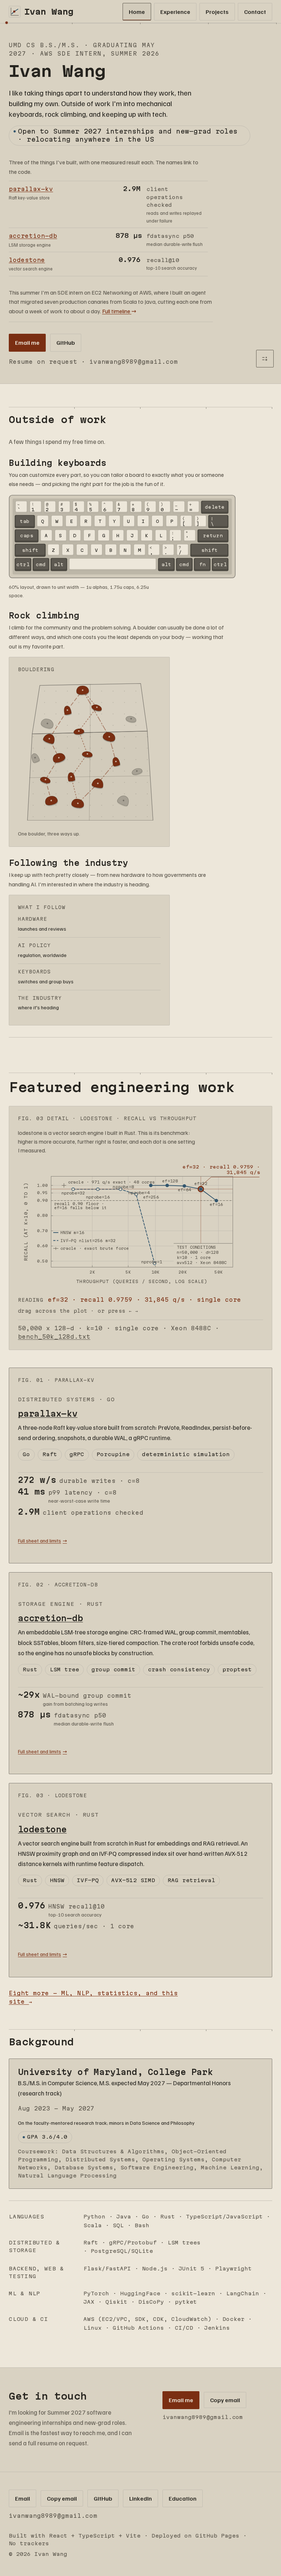
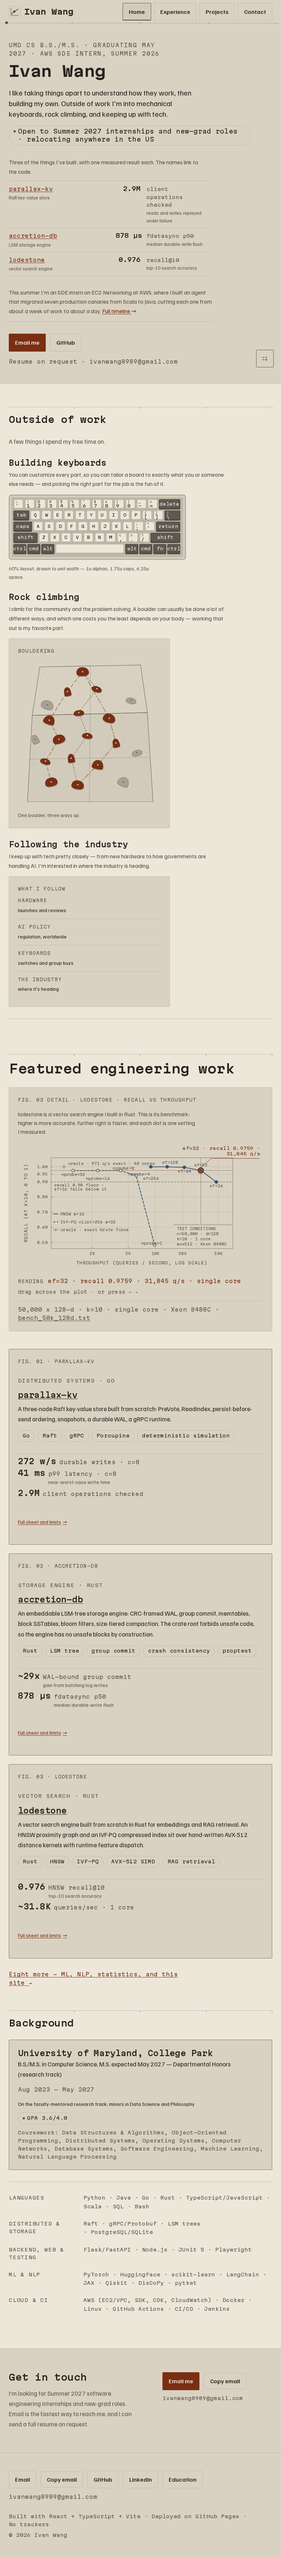
Text zoom failed WCAG 1.4.4 on every page; keycap legends rendered at 4.3px
No, it was not done. The audit's four MEDIUM findings were recorded and never acted
on, and one of them was a real accessibility failure.

TEXT-ONLY ZOOM (WCAG 1.4.4: 200% text with no loss of content) FAILED ON ALL FOUR
PAGES. Measured at a 320px viewport, scaling the root font-size only: 48px of
horizontal DOCUMENT overflow at a 24px root and 158px at 32px on three of four pages,
with /experience/ failing as early as an 18px root — the earliest failure on the site.
Five separate causes, every one of them "this text cannot break":

  the email address, in BOTH places it renders — no space, so one unbreakable token
  the contact grid's fixed minmax(300px, ...) floor, which could not shrink
  "Qiskit/DisCoPy/pytket" — a slash is not a break opportunity by default
  `1fr` grid tracks: shorthand for minmax(auto, 1fr), so FLOORED at min-content
  `p`, `a` and `li`, which never inherited the h1/h2/h3 break rule this file already
    had — and which was itself written after role titles painted document scroll

Now 0px of overflow on all four pages at every root from 16px to 32px.

TWO MISTAKES I MADE FIXING IT, both caught by re-measuring rather than assuming:
A bare `a { overflow-wrap: break-word }` made /projects/ WORSE at the base 16px root
— 76px of overflow from "benchmarks/raw/bench_50k_128d.txt" — because break-word
breaks the rendered line but does NOT reduce min-content, so the link still floored
[…]

diff --git a/src/index.css b/src/index.css
@@ -91,6 +91,42 @@ p {
   margin: 0 0 var(--space-4);
   max-width: var(--measure-prose);
   text-wrap: pretty;
+  /* Same contract the h1/h2/h3 rule above already states, extended to running text
+     and to links: a word breaks before the PAGE does. The heading rule was written
+     after role titles painted document scroll under text zoom; paragraphs and
+     anchors were left out, so at a 32px root on a 320px viewport a project title,
+     its licence line, its summary and its limits note all pushed the document 68px
+     wide — WCAG 1.4.4 again, on the copy a reader is actually reading.
+     `break-word`, not `anywhere`: it breaks a word only when there is no other
+     option, so nothing that already fits moves (measured identical at 16-22px
+     roots). Anchors are included because a repo name like "accretion-db" is one
+     token with a hyphen the engine will not break on its own. */
+  overflow-wrap: break-word;
+}
+
+/* ANCHORS BREAK, but with `anywhere` rather than `break-word` — and the difference
+   is a regression I caused and measured. A bare `a { overflow-wrap: break-word }`
+   made /projects/ WORSE at the base 16px root: 76px of document overflow from
+   "benchmarks/raw/bench_50k_128d.txt", because `break-word` breaks the rendered
+   line but does NOT reduce an element's min-content contribution, so the link still
+   floored its grid track and now did it while wrapping. `anywhere` is the one value
+   that shrinks min-content too, which is why the email spans use it as well.
+   Scoped to the links that carry path- and identifier-shaped text — the artifact
+   deep links and repo names, which have slashes and hyphens no engine breaks on its
+   own. Left alone everywhere else: prose links read better unbroken, and this must
+   not become a licence to hyphenate the nav. */
+.cta-text-link,
+.project-links a,
+.sweep-source,
+.system-copy h3 a,
+.role-card h3 a,
+/* `.sheet-block h3 a` covers the eight project-card titles. Missed on the first
+   pass, and they were the last thing overflowing: at a 32px root on a 320px
+   viewport "Unsupervised Domain Adaptation for Sentiment" pushed the document 68px
+   wide on its own. The h1/h2/h3 rule's `break-word` does not reach it, because the
+   link is a CHILD of the heading and carries its own min-content contribution. */
+.sheet-block h3 a {
+  overflow-wrap: anywhere;
 }
 
 a {
@@ -344,6 +380,11 @@ img {
 span.chip,
 span.proof-chip {
   white-space: normal;
+  /* Wrapping is not enough on its own: "Qiskit/DisCoPy/pytket" has no SPACE, so
+     `white-space: normal` gives it nowhere to break and it overflowed the document
+     by 18px at an 18px root — the earliest zoom failure on the site — and 207px at
+     32px. A slash is a legal break opportunity only under `anywhere`. */
+  overflow-wrap: anywhere;
 }
 
 /* Narrow phones: tighten further so brand + 4 tabs never overflow. */
@@ -900,17 +941,34 @@ button.btn {
 
 .sheet-grid {
   display: grid;
-  grid-template-columns: 1fr;
+  /* `minmax(0, 1fr)`, not `1fr` — the SINGLE-column case matters most, and it is
+     where this was actually failing. `1fr` means `minmax(auto, 1fr)`, so the track
+     is floored at its content's min-content width: measured at a 32px root on a
+     320px viewport, this one track resolved to 389px inside a correctly-288px grid
+     and the card overflowed the document by 85px. Zeroing the floor lets the
+     (now breakable) content reflow instead. Identical at every width where the
+     content fits. Same trap as the tablet-band overflow this file records above. */
+  grid-template-columns: minmax(0, 1fr);
   gap: var(--space-5);
 }
 
+/* `minmax(0, 1fr)`, NOT `1fr`, and this is the same trap twice.
+   `1fr` is shorthand for `minmax(auto, 1fr)`, so every track is FLOORED at its
+   content's min-content width and a grid of them cannot shrink below the sum of
+   those floors. That is exactly what put 112px of document overflow on this page
+   across the 768-876px band (one 276px nowrap chip), and it reappeared under text
+   zoom: at a 32px root on a 320px viewport the cards overflowed by 68px even after
+   every wrap fix, because the TRACKS were the floor, not the text.
+   `minmax(0, 1fr)` sets the floor to zero and lets the now-breakable content
+   reflow. Measured: /projects/ goes 85px -> 0 at a 32px root, and nothing moves at
+   any normal width (the tracks are identical whenever the content fits). */
 @media (min-width: 768px) {
   .sheet-grid {
-    grid-template-columns: repeat(2, 1fr);
+    grid-template-columns: repeat(2, minmax(0, 1fr));
   }
 
   .sheet-grid-3 {
-    grid-template-columns: repeat(3, 1fr);
+    grid-template-columns: repeat(3, minmax(0, 1fr));
   }
 }
 
@@ -1948,6 +2006,14 @@ button.btn {
 .role-bullets li {
   margin-bottom: var(--space-2);
   max-width: var(--measure-prose);
+  /* An `li` is running text and needs the same break policy as `p`, which it does
+     not inherit. It was the LAST thing painting document scroll under text zoom:
+     measured 91px of internal overflow at a 32px root on a 320px viewport, which the
+     leaf-most element scan could not see because the list itself is
+     `overflow-x: visible` — the bullets grew the document without any single element
+     exceeding the viewport. Same `break-word` as prose: a word breaks before the
+     page does, and only when it has no other option. */
+  overflow-wrap: break-word;
 }
 
 /* ------------------------------------------------------- off the clock */
@@ -2333,7 +2399,12 @@ button.btn {
 
 .contact-layout {
   display: grid;
-  grid-template-columns: minmax(0, 1.2fr) minmax(300px, 0.8fr);
+  /* min() on the floor, not a bare 300px: the fixed floor could not shrink, so at
+     a 24px root on a 320px viewport the two-column band forced the whole document
+     26px wide ("Get in touch", its paragraph, and the address all overflowed
+     together). `min(300px, 100%)` keeps the intended 300px wherever there is room
+     and collapses gracefully where there is not. */
+  grid-template-columns: minmax(0, 1.2fr) minmax(min(300px, 100%), 0.8fr);
   gap: var(--space-8);
   /* start, not center: the two columns are unequal in height (measured 127.7px
      of copy against an 81.8px action stack), so centering pushed the Email
@@ -2364,6 +2435,19 @@ button.btn {
   flex-wrap: wrap;
   align-items: center;
   gap: 12px;
+}
+
+/* THE ADDRESS MUST BE ABLE TO BREAK. An email address contains no space, so
+   `overflow-wrap: normal` makes it one unbreakable token — at a 24px root on a
+   320px viewport it pushed the DOCUMENT 26px wide here and 48px in the footer,
+   and 158px at a 32px root. That is a WCAG 1.4.4 failure: text-only zoom to 200%
+   must not cost content. `anywhere` rather than `break-word` because only
+   `anywhere` lets the break shrink the element's min-content contribution, which
+   is what stops it forcing its GRID TRACK wider (break-word alone still overflowed
+   by 26px, measured). Applies to both copies of the address. */
+.contact-email,
+.footer-email {
+  overflow-wrap: anywhere;
 }
 
 .contact-email {

diff --git a/src/components/Keyboard.css b/src/components/Keyboard.css
@@ -21,7 +21,15 @@
 .kb {
   position: relative;
   margin: 0;
-  max-width: 620px;
+  /* 484px, not 620px, and the number is derived rather than chosen: the viewBox is
+     538 units wide, so at 484px the scale is 0.9 and the 13px legend renders 11.7px
+     — just under the page's 13px mono label rank, which DESIGN.md requires a figure's
+     own type to stay beneath. At the old 620px cap the single-column band (768-1023w)
+     rendered the board at full width and its legends hit 15.0px, ABOVE that rank, so
+     the drawing's keycaps would have outranked the section labels around it.
+     This only binds in the single-column band; in the three-up hobby row the column
+     is ~336px and is the narrower constraint. */
+  max-width: 484px;
 }
 
 .kb-svg {
@@ -77,8 +85,17 @@
   fill: var(--ink);
   font-family: var(--font-mono);
   /* Drawing dimensions, in viewBox units: a legend is sized to its cap, not to
-     the page's reading ramp. Same class of value as the stroke widths above. */
-  font-size: 10px;
+     the page's reading ramp. Same class of value as the stroke widths above.
+     13px, not 10px. The viewBox is 538 units wide and the figure renders 288-358px
+     in its hobby column, so the scale is 0.54-0.67 and a 10px legend rendered at
+     5.35px @320w, 6.65 @390 and 6.25 @1366 — with the shifted sub-legends at
+     4.28-5.0px, which a screenshot at 320 shows as illegible smudges. A 61-key board
+     needs ~484px of render width for a 9px legend and it never gets it.
+     Raising the drawing dimension is the honest correction: the legends are now
+     7.0-8.7px rendered, which is small-but-readable at the size the figure actually
+     occupies, and it costs nothing structural because these are viewBox units — the
+     caps do not move. The sub-legends scale with them below. */
+  font-size: 13px;
   text-anchor: middle;
   pointer-events: none;
 }
@@ -88,7 +105,9 @@
 .kb-sub {
   fill: var(--ink-secondary);
   font-family: var(--font-mono);
-  font-size: 8px;
+  /* 10px against the legend's 13px, holding the same ~0.77 ratio the original pair
+     had (8/10). Rendered 5.4-6.7px. */
+  font-size: 10px;
   text-anchor: start;
   pointer-events: none;
 }
@@ -146,6 +165,19 @@
   aspect-ratio: var(--kb-aspect);
 }
 
+/* THE CAPS ARE 17-28px, AND THEY DO NOT MEET THE 44px TAP TARGET. Recorded as a
+   deliberate exception rather than left as an unexamined gap, because the site holds
+   44px everywhere it matters (`.btn`, the nav tabs, the sweep steppers).
+   Why it is not raised: 61 caps at 44px would need the board ~1,200px wide, which no
+   layout on this page has room for and which would make a hobby drawing the largest
+   object on a recruiting page — the exact defect the boulder's square aspect was
+   changed to fix. The caps are PARTS OF A DRAWING that happen to respond, not
+   controls carrying a task: nothing on the site depends on pressing one, each press
+   flashes a cap for 190ms, and the figure promises nothing else.
+   The affordance a keyboard user needs is met a different way: the board is ONE tab
+   stop with arrow-key navigation inside it, so no one has to hit a 17px target to
+   operate it. Both facts are gated — the tab budget in verify.mjs, and hit/cap
+   alignment to <4px so a tap that looks aimed at a cap presses that cap. */
 .kb-hit-btn {
   position: absolute;
   padding: 0;
